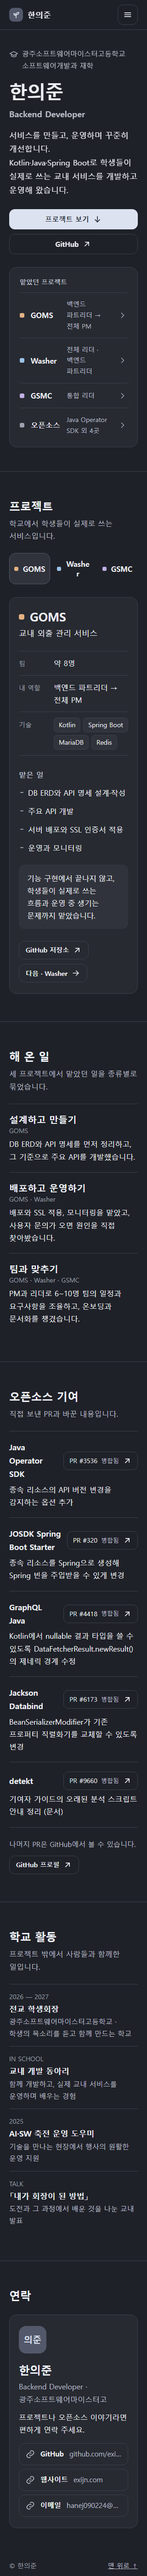
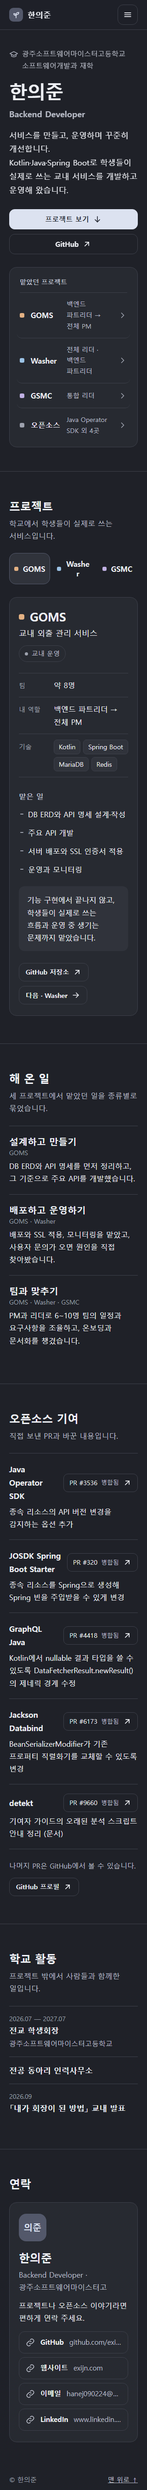
chore: apply confirmed content and security patches from #1
Bump zod to 4.6.7 and vite to 8.3.5 (security patches from PR #1),
port its production-metadata domain regression test, and reconcile
AGENTS.md/CLAUDE.md (PR #1's version hardcoded a stale branch name and
the prior local version assumed a direct-push-to-main workflow that
contradicts the branch+PR flow actually in use). Apply the confirmed
content answers: public LinkedIn profile, GOMS/Washer/GSMC status
badges, and the corrected activity list.

Changed region(s): [[0.0625, 0.0, 0.9375, 0.9983], [0.7812, 0.2184, 0.875, 0.2496], [0.6562, 0.8423, 0.6875, 0.8735]]

diff --git a/tests/server/content.test.ts b/tests/server/content.test.ts
@@ -26,6 +26,17 @@ test('metadata escapes edited content, preserves dollar strings, removes empty c
   assert.deepEqual(JSON.parse(data).sameAs, [])
   assert.doesNotMatch(data, /<script>/)
 })
+test('production metadata and sitemap use the configured domain', () => {
+  const { profile } = contentSchema.parse(JSON.parse(readFileSync('content/site.json', 'utf8')))
+  const html = readFileSync('dist/index.html', 'utf8')
+  const person = JSON.parse(html.match(/<script type="application\/ld\+json">(.*?)<\/script>/)![1])
+  assert.equal(person.url, profile.website)
+  assert.ok(html.includes(`rel="canonical" href="${profile.website}/"`))
+  assert.ok(html.includes(`property="og:url" content="${profile.website}/"`))
+  assert.ok(html.includes(`property="og:image" content="${profile.website}/images/og.png"`))
+  assert.ok(readFileSync('dist/robots.txt', 'utf8').includes(`${profile.website}/sitemap.xml`))
+  assert.ok(readFileSync('dist/sitemap.xml', 'utf8').includes(`<loc>${profile.website}/</loc>`))
+})
 test('runtime schema rejects scripts in links, unknown fields, traversal, duplicate IDs', () => {
   const content = structuredClone(initialContent)
   content.profile.github = 'javascript:alert(1)'; assert.equal(contentSchema.safeParse(content).success, false)

diff --git a/AGENTS.md b/AGENTS.md
@@ -1,0 +1,29 @@
+# 작업 지침
+
+## 작업 시작 전
+
+- 현재 경로, 저장소, 브랜치, HEAD, `git status`, remote 및 관련 원격 브랜치(`origin/main`과 작업 브랜치)의 최신 상태를 확인한다. 관련 이력과 `README.md`, `docs/`, 작업 대상 코드를 먼저 읽고 `PRODUCT.md`, `DESIGN.md`가 있으면 UI 변경 전에 함께 읽는다.
+- 기존 미커밋 변경과 다른 worktree를 보존한다. 변경의 소유자와 범위가 불명확하면 덮어쓰지 않는다. 기존 PR과 작업 브랜치는 별도 요청 없이 병합하거나 닫지 않는다.
+
+## Git과 배포
+
+- `main`에 직접 push하지 않는다. 작업은 별도 브랜치에서 하고, 의미 있는 단위로 커밋한 뒤 해당 브랜치를 push해 PR을 만든다. 브랜치 이름은 작업 내용에 맞게 정하거나 사용자가 지정한 이름을 쓰며, 특정 브랜치 이름을 고정 전제로 두지 않는다.
+- PR 병합, force push, main 직접 push, Vercel 운영 배포·환경 변수·DNS·OAuth App 변경은 사용자가 해당 작업에서 명시적으로 요청했을 때만 수행한다. 사용자가 다른 절차를 명시하면 그 지시를 우선한다.
+- `reset --hard`, `git clean`, `stash`, force push와 사용자 변경 삭제, 검증 우회를 임의로 실행하지 않는다. 스테이징 전에 대상 파일과 diff를 확인하고, 관련 없는 변경과 비밀값을 커밋하지 않는다.
+
+## 구조와 계약
+
+- `content/site.json`은 콘텐츠 기준이고 `shared/content.ts`는 검증과 공개 항목 필터를 담당한다. 확인되지 않은 성과를 만들어내지 않는다. 공개 페이지와 관리자 미리보기는 같은 콘텐츠 렌더러를 사용하도록 유지한다.
+- `admin/`, `server/`, `api/`의 OAuth, 세션, CSRF, 이미지 검증, GitHub PR 기반 콘텐츠 저장 및 SHA 충돌 방지 계약을 보존한다. 비공개 콘텐츠 필터, 메타데이터, robots/sitemap 및 `vercel.json`의 배포 경계도 변경 시 함께 확인한다. 실제 구현과 차이가 있으면 복원 계획과 검증을 먼저 세운다.
+- React, TypeScript, Vite와 기존 스타일·테스트 패턴을 우선한다. UTF-8과 기존 줄바꿈을 유지하고 불필요한 의존성과 무관한 리팩터링을 피한다. 비밀값을 읽거나 출력하거나 커밋하지 않는다.
+
+## 검증과 보고
+
+- 코드 변경 시 `npm run typecheck`, `npm run lint`, `npm run build`, `npm test`, `npm run test:e2e`를 실행한다. Playwright는 Chromium과 localhost:4175를 사용한다. UI 변경은 320, 375, 768, 1024, 1440px 화면과 키보드, axe, reduced motion을 확인한다. 문서만 수정하면 문서 diff와 링크·명령의 정확성을 확인하고 실행하지 않은 검사를 명시한다.
+- 완료 보고에는 브랜치, 변경 내용과 주요 파일, 실행한 검사와 결과, 미검증 사항, 커밋 및 push 결과를 포함한다. 실제 OAuth·운영 배포·실물 기기 검증을 합성 테스트와 구분한다.
+
+## 디자인 스킬
+
+- 설치된 경우에만 해당 `SKILL.md`를 읽어 적용한다. 프로젝트 목적과 사용자 지시를 우선하고 서로 충돌하는 지침을 동시에 적용하지 않는다.
+- Taste Skill은 시각 방향 탐색, Impeccable은 선택한 방향의 타이포그래피·여백·반응형 정교화, web-design-guidelines는 구현 후 접근성·UX 검토에 각각 사용한다.
+- 미설치 시 공식 안내만 참고한다: [Impeccable](https://impeccable.style/docs/) `npx impeccable install`, [Taste Skill](https://github.com/Leonxlnx/taste-skill) `npx skills add https://github.com/Leonxlnx/taste-skill --skill design-taste-frontend`, [web-design-guidelines](https://github.com/vercel-labs/web-interface-guidelines) `npx skills add https://github.com/vercel-labs/agent-skills --skill web-design-guidelines`. 설치 범위와 지침을 확인하고 승인 없이 전역 설치하지 않는다.

diff --git a/CLAUDE.md b/CLAUDE.md
@@ -1,0 +1,3 @@
+# 도구별 참고
+
+공통 프로젝트 규칙은 `AGENTS.md`를 우선 참조한다. Claude Code와 Codex 모두 기존 worktree와 미커밋 변경을 보존하고, 사용자 지시와 현재 브랜치·원격 상태를 확인한 뒤 작업한다. `PRODUCT.md`와 `DESIGN.md`가 있으면 UI 변경 전에 읽는다.
